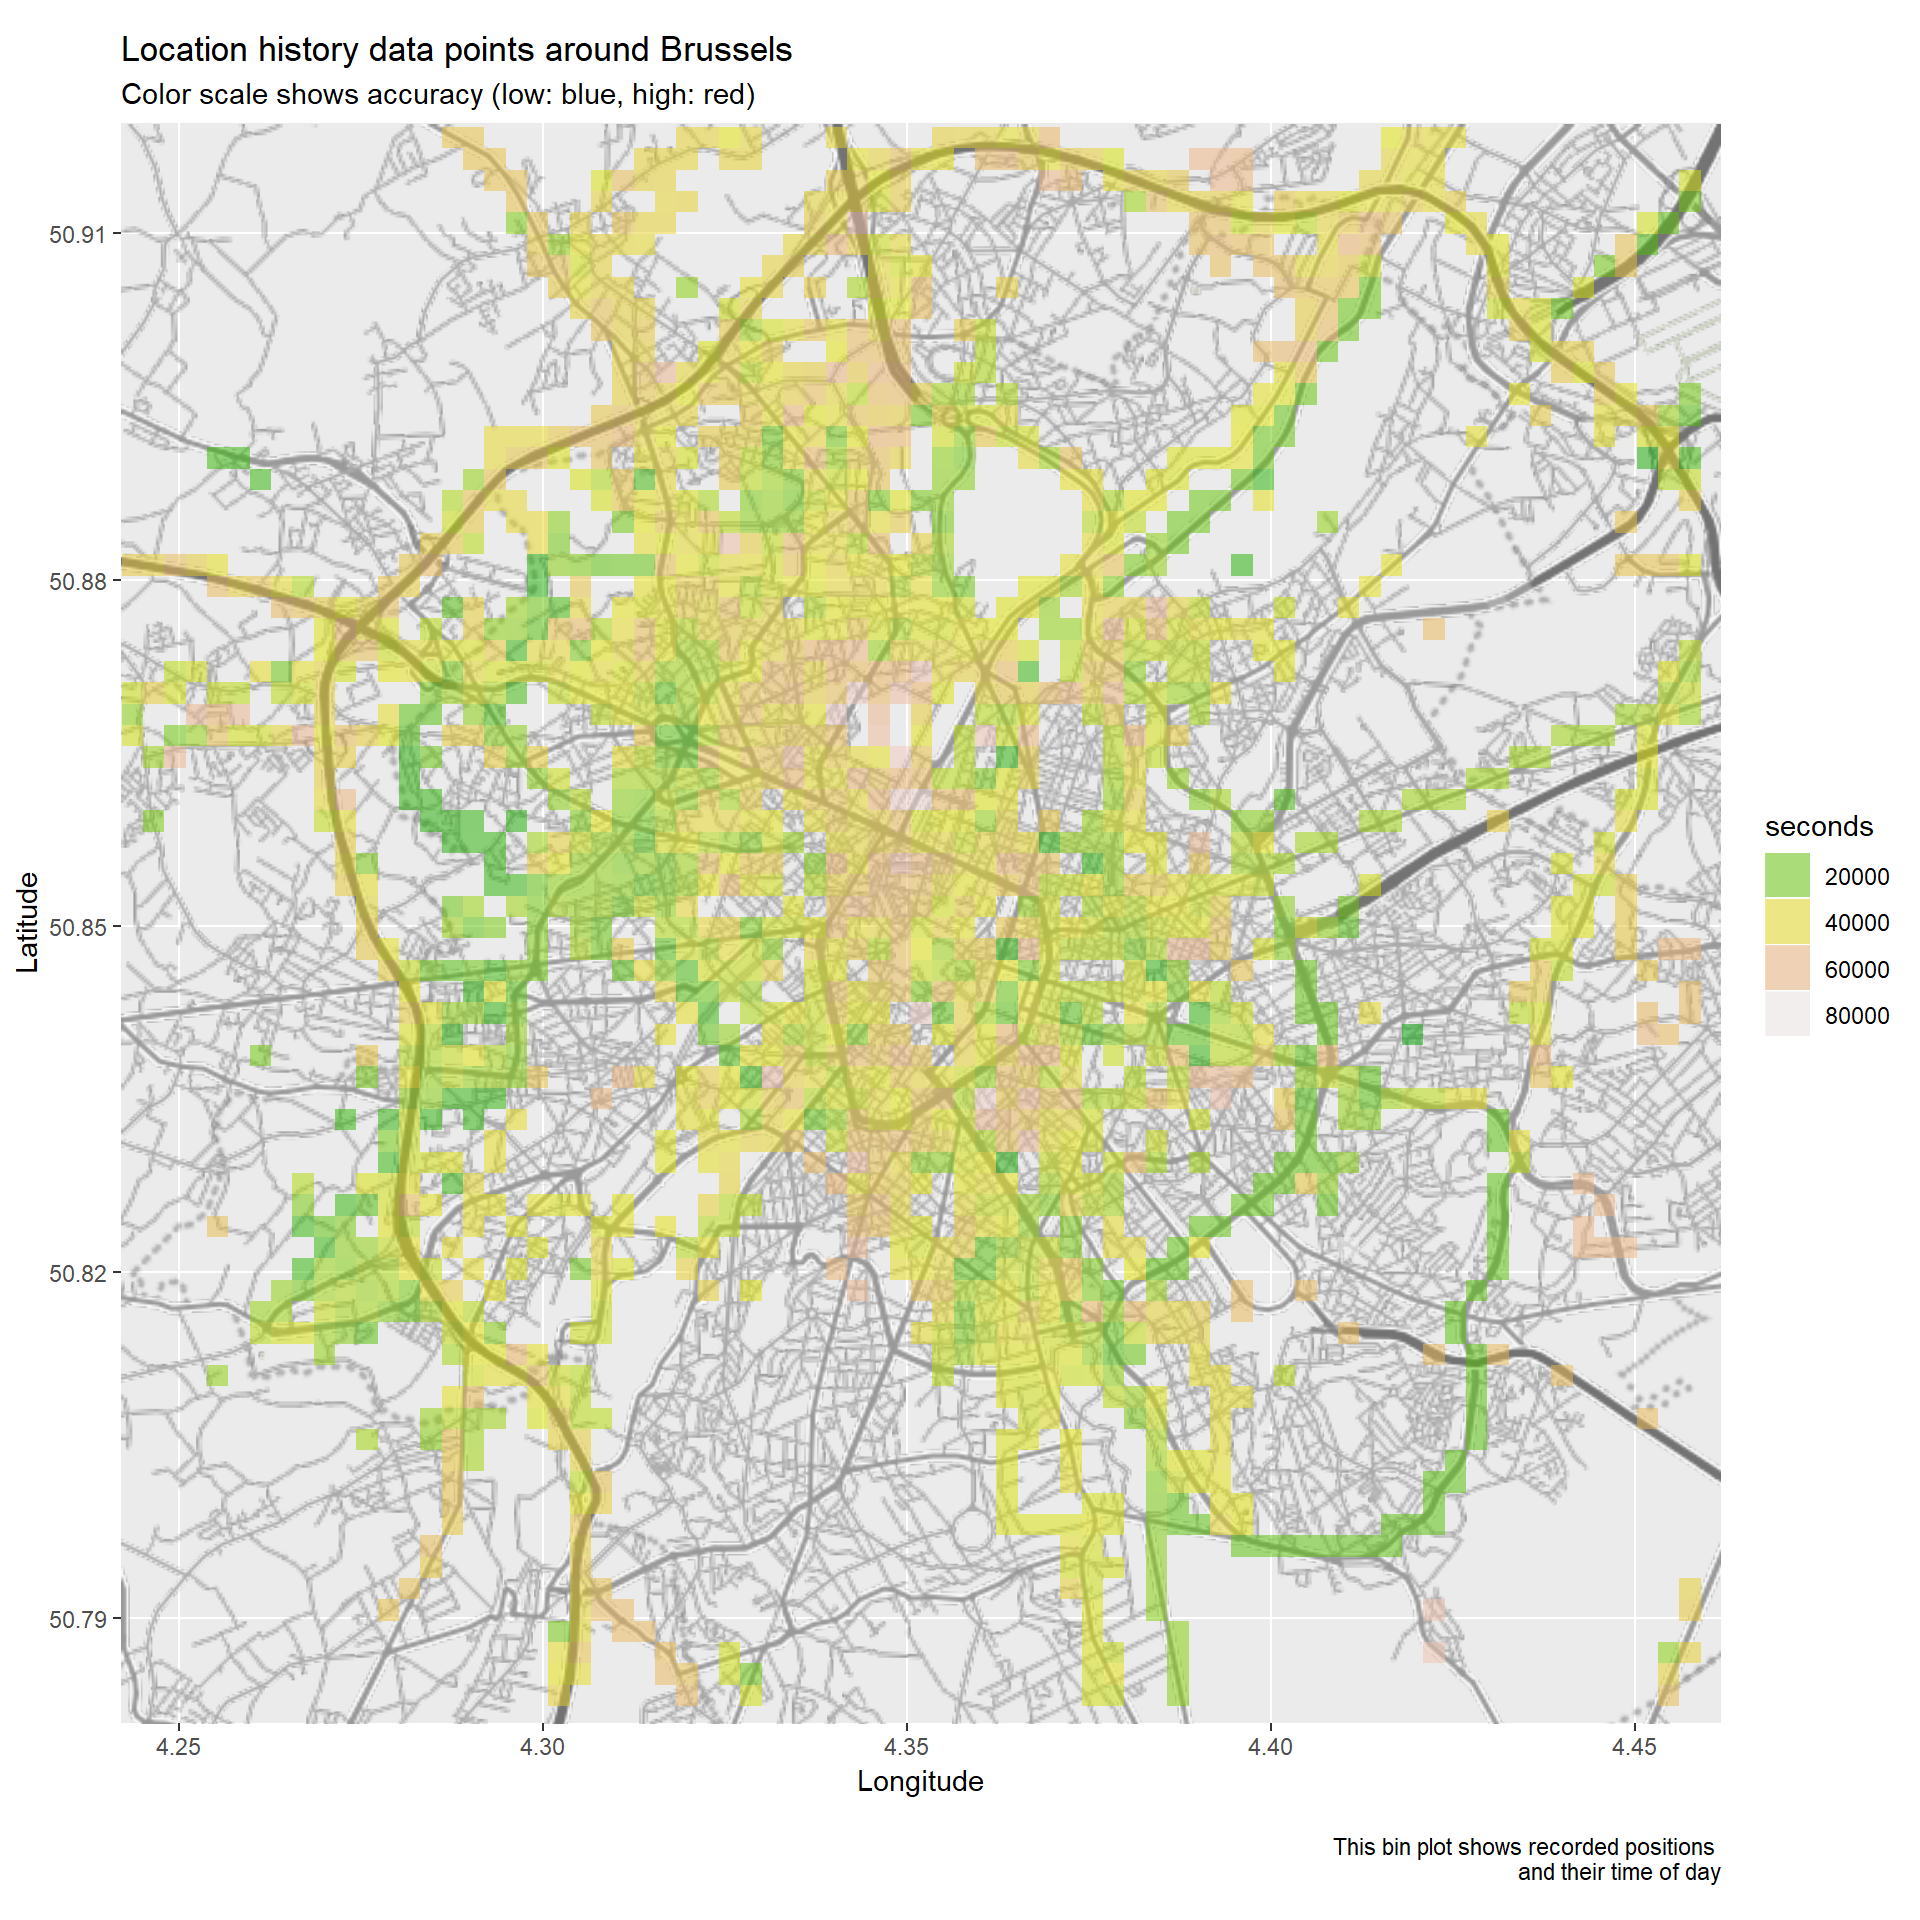
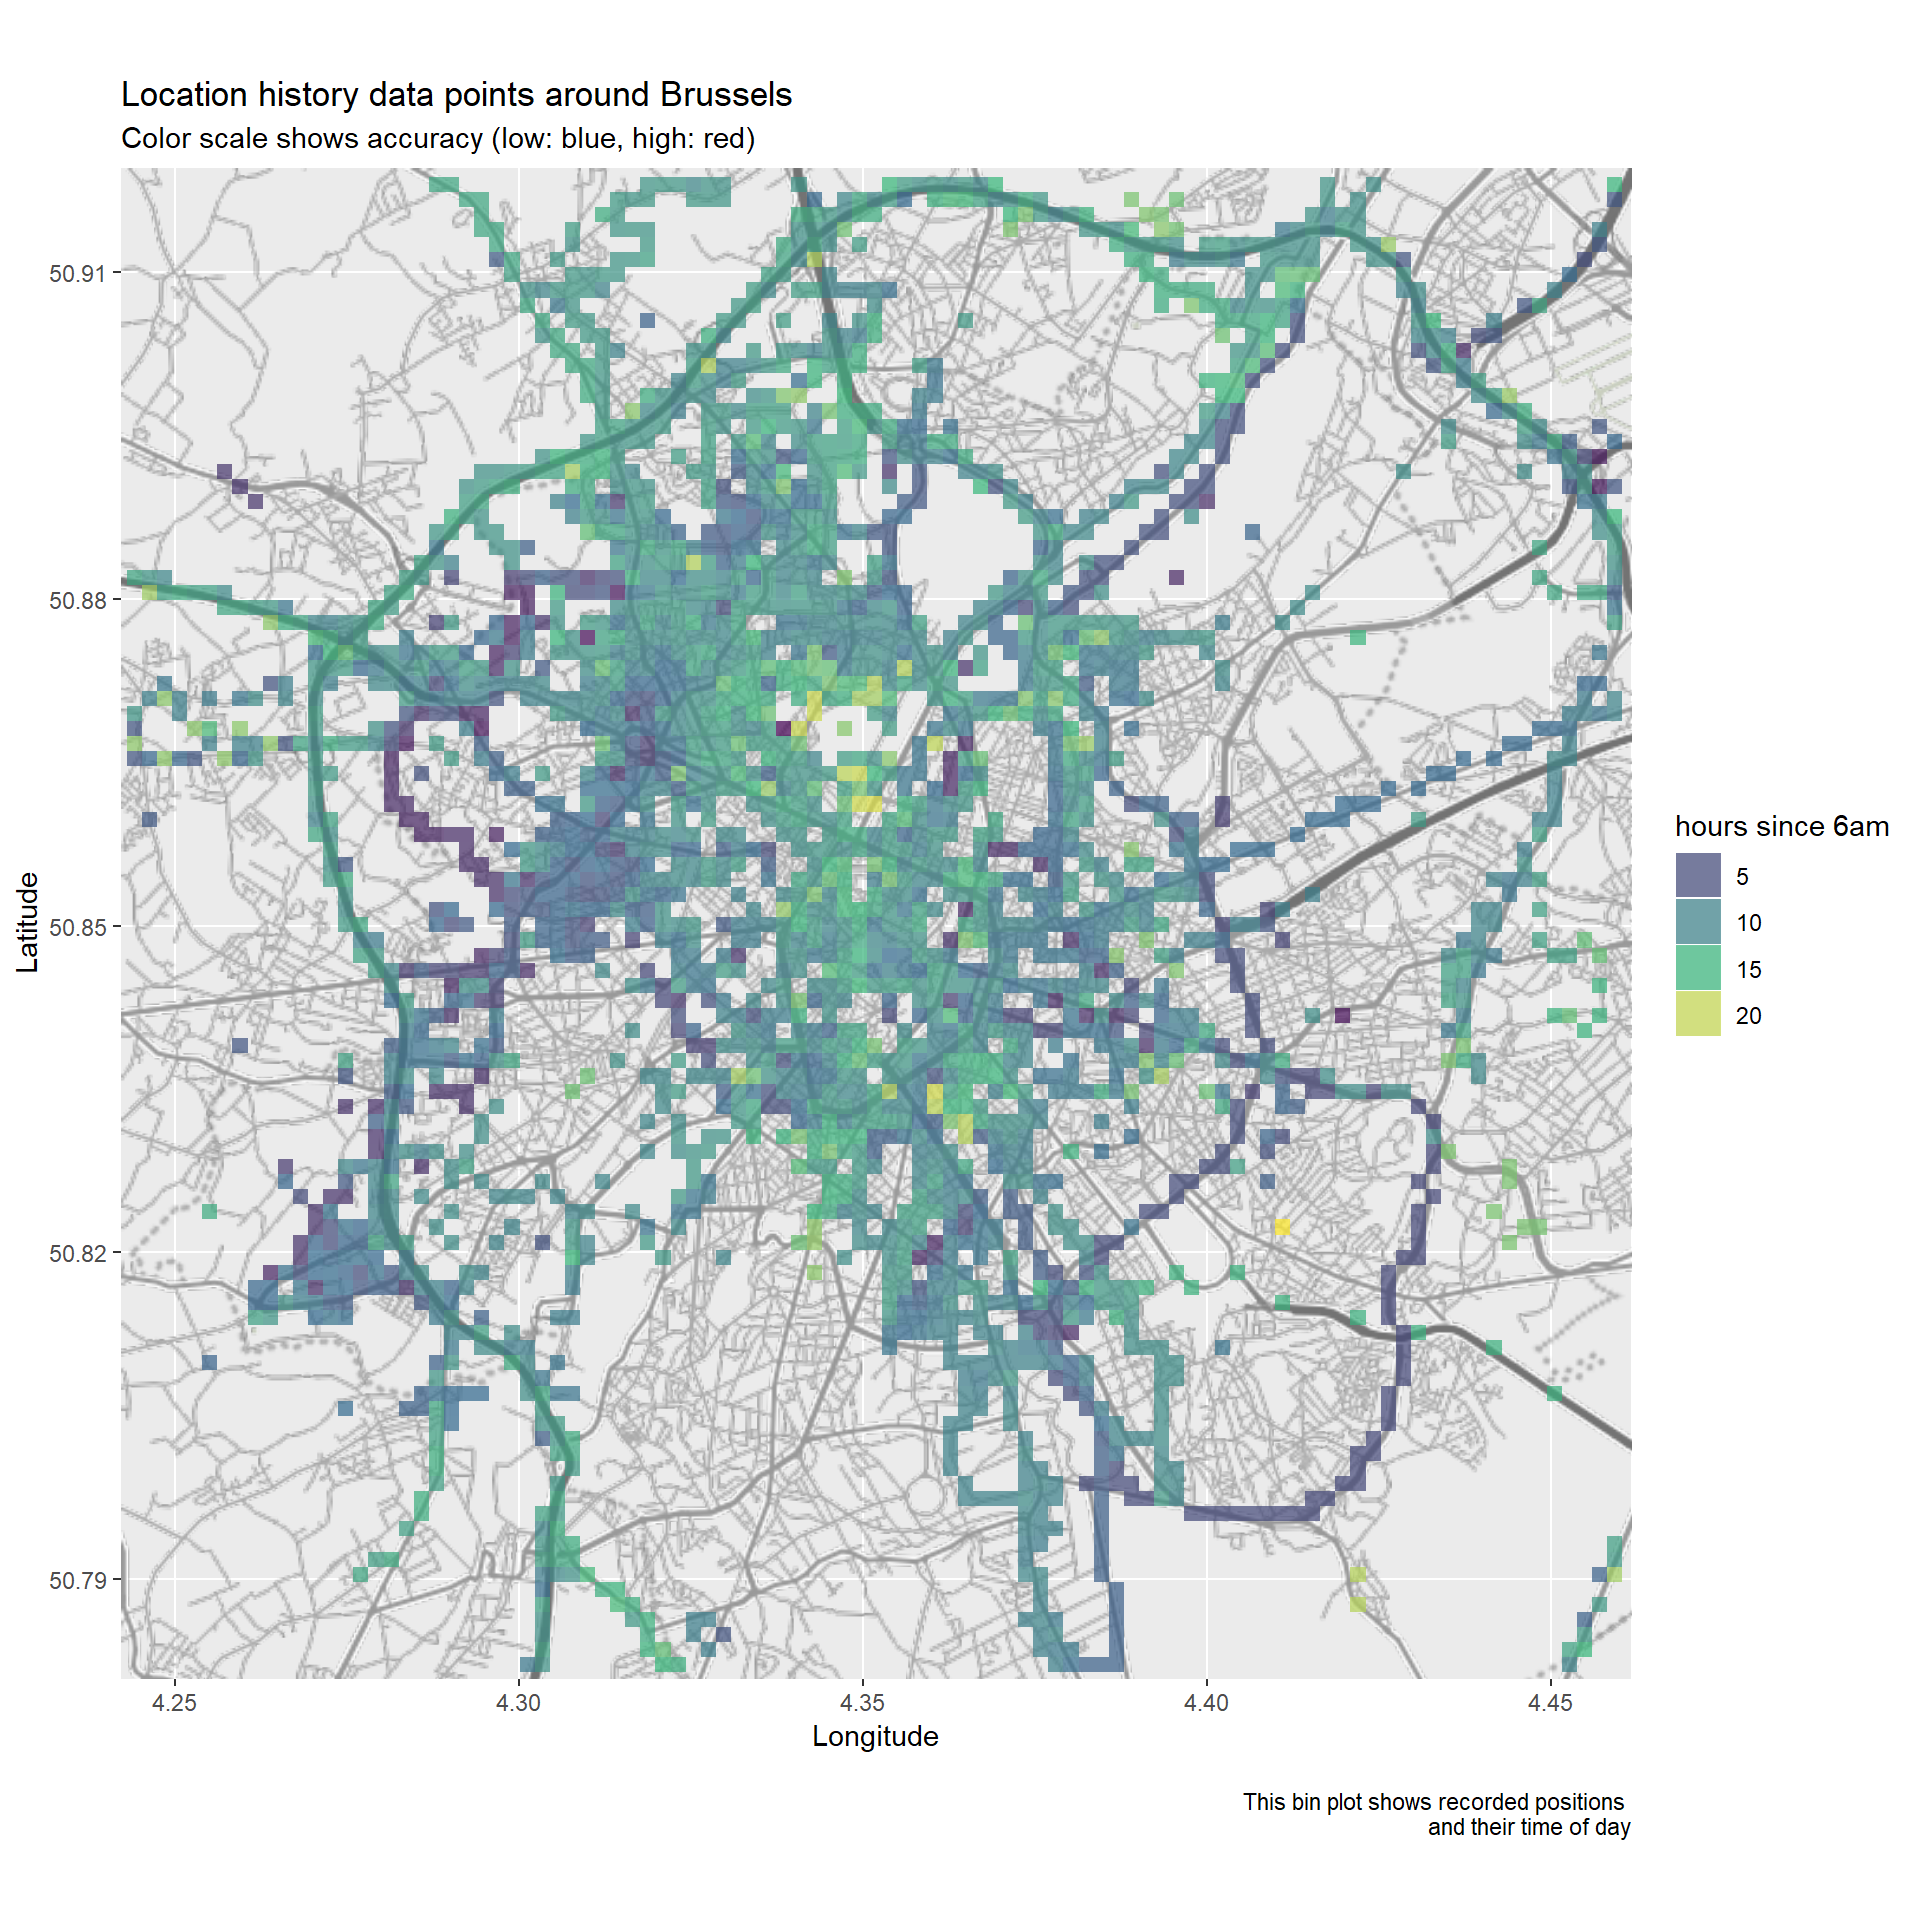
finalising first post

diff --git a/public/post/google-location-tracking/index.html b/public/post/google-location-tracking/index.html
@@ -123,9 +123,10 @@ So I downloaded the data, that comes in json format, and had a go at it. You can
 library(&quot;tidyverse&quot;)
 library(&quot;lubridate&quot;)
 library(&quot;ggplot2&quot;)
-library(&quot;ggmap&quot;)    # devtools::install_github(&quot;dkahle/ggmap&quot;)
+library(&quot;ggmap&quot;)      # devtools::install_github(&quot;dkahle/ggmap&quot;)
 library(&quot;glue&quot;)
-library(&quot;emo&quot;)      # devtools::install_github(&quot;hadley/emo&quot;)</code></pre>
+library(&quot;emo&quot;)        # devtools::install_github(&quot;hadley/emo&quot;)
+library(&quot;viridis&quot;)    # install.packages(&quot;viridis&quot;)</code></pre>
 <pre class="r"><code>data &lt;- fromJSON(&quot;./data/Location History.json&quot;) # extracts a list
 locations &lt;- data$locations # and the list contains a dataframe
 rm(data)  # no need for this anymore</code></pre>
@@ -161,7 +162,7 @@ sort(unique(df$heading)) #naught to 360</code></pre>
 <pre class="r"><code>unique(df$velocity)</code></pre>
 <pre><code>##  [1] NA  0  1  3  5 14 28  2  4  7  8 25 29 15 16 19 10  6  9 11 13 12 21
 ## [24] 24 20 17 26 27 30 23 22 18 31 33 32 34 35 36 82 83 77 74 67 37</code></pre>
-<p>Does that mean that I ever broke the speed limit? We’re not supposed to drive faster than 120 km/h in :BE: 😱</p>
+<p>Does that mean that I ever broke the speed limit? We’re not supposed to drive faster than 120 km/h in :Flag:BE: 😱</p>
 <pre class="r"><code>#paste(round(max(unique(df$velocity), na.rm = TRUE)*1.609344,0),&quot;km!&quot;); ji(&quot;scream&quot;)
 fine &lt;- paste(round(max(unique(df$velocity), na.rm = TRUE)*1.609344,0),&quot;km!&quot;)
 scream &lt;- ji_glue(&quot;😱&quot;) 
@@ -267,19 +268,20 @@ x &lt;- df %&gt;%
            case_when((period_to_seconds(hms(time)) &gt; 21600) ~ 
                        (period_to_seconds(hms(time))-21600),
                      TRUE ~ (period_to_seconds(hms(time))+64799)))</code></pre>
-<p>So now there is a value (from_dawn) that is equal to 0 at six am and continues to increase until just before six. “It’s six o’clock in the morning, do you know where your parents are?”</p>
+<p>So now there is a value (from_dawn) that is equal to 0 at six am and continues to increase until just before six. Easy to convert to hours starting from six am. Values seem higher in the center of the city. “It’s six o’clock in the morning, do you know where your parents are?” :crazy:</p>
 <pre class="r"><code>options(stringsAsFactors = T)
 
 bb &lt;- attr(brussels, &quot;bb&quot;)
 x &lt;- df %&gt;% 
   filter(lat &lt; bb$ur.lat &amp; lat &gt; bb$ll.lat,
-         lon &gt; bb$ll.lon &amp; lon &lt; bb$ur.lon)
+         lon &gt; bb$ll.lon &amp; lon &lt; bb$ur.lon) %&gt;% 
+  mutate(hours = from_dawn/3600)
 
 ggmap(brussels) + 
-  stat_summary_2d(geom = &quot;tile&quot;, bins = 75, data = x, 
-                  aes(x = lon, y = lat, z = from_dawn), alpha = 0.5) + 
-  scale_fill_gradientn(colours = terrain.colors(10), 
-                       guide = guide_legend(title = &quot;seconds&quot;)) +
+  stat_summary_2d(geom = &quot;tile&quot;, bins = 100, data = x, 
+                  aes(x = lon, y = lat, z = hours), alpha = 0.7) + 
+  scale_fill_gradientn(colors  =  viridis(4), 
+                       guide = guide_legend(title = &quot;hours since 6am&quot;)) +
   labs(
     x = &quot;Longitude&quot;, 
     y = &quot;Latitude&quot;, 
@@ -308,7 +310,8 @@ geom_point(data = x, aes(x = lon, y = lat), alpha = 0.5, color = &quot;#FC4E07&q
 <pre class="r"><code>ggplot(data = x, aes(x = datetime, y = lat))+
   geom_line()</code></pre>
 <p><img src="/post/2019-03-30-google-location-tracking_files/figure-html/unnamed-chunk-25-1.png" width="960" />
-So clearly 2015, 2017 have much less data.</p>
+So clearly 2015 and 2017 have much less data. In 2017 it looks like I only used location services to three or four specific places in Brussels, but it is intriguing that there seems to be data throughout the year. And this in contrast with the end of 2018 when I switched the location tracking off. Whether Google still keeps track of my whereabouts is of course another matter.</p>
+<p>I still don’t know if my commute has gotten longer. I will try to find out writing a next blog post.</p>
 
       
       <div class="related">

diff --git a/content/post/2019-03-30-google-location-tracking.html b/content/post/2019-03-30-google-location-tracking.html
@@ -20,9 +20,10 @@ tags:
 library(&quot;tidyverse&quot;)
 library(&quot;lubridate&quot;)
 library(&quot;ggplot2&quot;)
-library(&quot;ggmap&quot;)    # devtools::install_github(&quot;dkahle/ggmap&quot;)
+library(&quot;ggmap&quot;)      # devtools::install_github(&quot;dkahle/ggmap&quot;)
 library(&quot;glue&quot;)
-library(&quot;emo&quot;)      # devtools::install_github(&quot;hadley/emo&quot;)</code></pre>
+library(&quot;emo&quot;)        # devtools::install_github(&quot;hadley/emo&quot;)
+library(&quot;viridis&quot;)    # install.packages(&quot;viridis&quot;)</code></pre>
 <pre class="r"><code>data &lt;- fromJSON(&quot;./data/Location History.json&quot;) # extracts a list
 locations &lt;- data$locations # and the list contains a dataframe
 rm(data)  # no need for this anymore</code></pre>
@@ -58,7 +59,7 @@ sort(unique(df$heading)) #naught to 360</code></pre>
 <pre class="r"><code>unique(df$velocity)</code></pre>
 <pre><code>##  [1] NA  0  1  3  5 14 28  2  4  7  8 25 29 15 16 19 10  6  9 11 13 12 21
 ## [24] 24 20 17 26 27 30 23 22 18 31 33 32 34 35 36 82 83 77 74 67 37</code></pre>
-<p>Does that mean that I ever broke the speed limit? We’re not supposed to drive faster than 120 km/h in :BE: :scream:</p>
+<p>Does that mean that I ever broke the speed limit? We’re not supposed to drive faster than 120 km/h in :Flag:BE: :scream:</p>
 <pre class="r"><code>#paste(round(max(unique(df$velocity), na.rm = TRUE)*1.609344,0),&quot;km!&quot;); ji(&quot;scream&quot;)
 fine &lt;- paste(round(max(unique(df$velocity), na.rm = TRUE)*1.609344,0),&quot;km!&quot;)
 scream &lt;- ji_glue(&quot;:scream:&quot;) 
@@ -164,19 +165,20 @@ x &lt;- df %&gt;%
            case_when((period_to_seconds(hms(time)) &gt; 21600) ~ 
                        (period_to_seconds(hms(time))-21600),
                      TRUE ~ (period_to_seconds(hms(time))+64799)))</code></pre>
-<p>So now there is a value (from_dawn) that is equal to 0 at six am and continues to increase until just before six. “It’s six o’clock in the morning, do you know where your parents are?”</p>
+<p>So now there is a value (from_dawn) that is equal to 0 at six am and continues to increase until just before six. Easy to convert to hours starting from six am. Values seem higher in the center of the city. “It’s six o’clock in the morning, do you know where your parents are?” :crazy:</p>
 <pre class="r"><code>options(stringsAsFactors = T)
 
 bb &lt;- attr(brussels, &quot;bb&quot;)
 x &lt;- df %&gt;% 
   filter(lat &lt; bb$ur.lat &amp; lat &gt; bb$ll.lat,
-         lon &gt; bb$ll.lon &amp; lon &lt; bb$ur.lon)
+         lon &gt; bb$ll.lon &amp; lon &lt; bb$ur.lon) %&gt;% 
+  mutate(hours = from_dawn/3600)
 
 ggmap(brussels) + 
-  stat_summary_2d(geom = &quot;tile&quot;, bins = 75, data = x, 
-                  aes(x = lon, y = lat, z = from_dawn), alpha = 0.5) + 
-  scale_fill_gradientn(colours = terrain.colors(10), 
-                       guide = guide_legend(title = &quot;seconds&quot;)) +
+  stat_summary_2d(geom = &quot;tile&quot;, bins = 100, data = x, 
+                  aes(x = lon, y = lat, z = hours), alpha = 0.7) + 
+  scale_fill_gradientn(colors  =  viridis(4), 
+                       guide = guide_legend(title = &quot;hours since 6am&quot;)) +
   labs(
     x = &quot;Longitude&quot;, 
     y = &quot;Latitude&quot;, 
@@ -205,4 +207,5 @@ geom_point(data = x, aes(x = lon, y = lat), alpha = 0.5, color = &quot;#FC4E07&q
 <pre class="r"><code>ggplot(data = x, aes(x = datetime, y = lat))+
   geom_line()</code></pre>
 <p><img src="/post/2019-03-30-google-location-tracking_files/figure-html/unnamed-chunk-25-1.png" width="960" />
-So clearly 2015, 2017 have much less data.</p>
+So clearly 2015 and 2017 have much less data. In 2017 it looks like I only used location services to three or four specific places in Brussels, but it is intriguing that there seems to be data throughout the year. And this in contrast with the end of 2018 when I switched the location tracking off. Whether Google still keeps track of my whereabouts is of course another matter.</p>
+<p>I still don’t know if my commute has gotten longer. I will try to find out writing a next blog post.</p>
